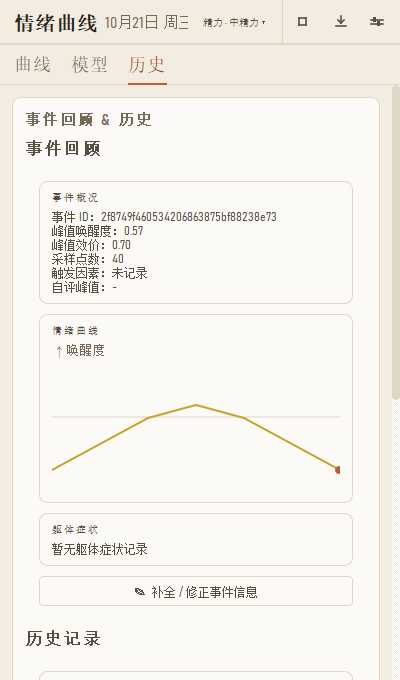
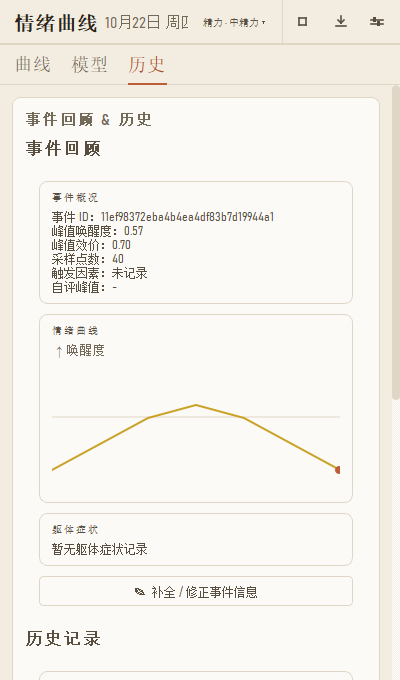
fix(v5): 纠正框输入行适配 400px，重新生成 v5 实拍
- 时刻/效价/唤醒三列收窄，spinbox 显式样式，避免 400px 下左右裁字
- 用当前时间重新生成 v5 主窗/模型/历史/挂件/空态/错误态/悬停/纠正截图
- LOC 25,621；769 passed

Changed region(s): [[0.24, 0.3088, 0.69, 0.3397], [0.39, 0.0, 0.48, 0.0618]]

diff --git a/windows/correction_sheet.py b/windows/correction_sheet.py
@@ -26,7 +26,7 @@ from PyQt5.QtWidgets import (
 )
 from PyQt5.QtGui import QFont
 
-from theme import COLORS, app_font, app_font_num, DUR_MID
+from theme import COLORS, METRICS, app_font, app_font_num, DUR_MID
 
 
 class CorrectionSheet(QDialog):
@@ -108,8 +108,8 @@ class CorrectionSheet(QDialog):
             f" border-top: 1px solid {COLORS['rule']}; }}"
         )
         rl = QHBoxLayout(right)
-        rl.setContentsMargins(14, 10, 14, 10)
-        rl.setSpacing(10)
+        rl.setContentsMargins(10, 8, 10, 8)
+        rl.setSpacing(8)
 
         def _field(key, widget, extra=None):
             """一格：极小标签在上，控件在下。"""
@@ -133,6 +133,7 @@ class CorrectionSheet(QDialog):
         self.tm_lbl = QLabel("—")
         self.tm_lbl.setFont(app_font_num(13, QFont.Light))
         self.tm_lbl.setStyleSheet(f"color: {COLORS['ink']};")
+        self.tm_lbl.setFixedWidth(78)
         rl.addWidget(_field("时刻", self.tm_lbl), 1)
 
         # 效价
@@ -154,6 +155,18 @@ class CorrectionSheet(QDialog):
         self.a_sb.setFont(app_font(11))
         self.a_sb.valueChanged.connect(lambda v: self._on_manual_edit(1, v))
         rl.addWidget(_field("唤醒", self.a_sb, self._a_orig_lbl), 2)
+
+        # 400px 宽下三个字段必须收窄，否则 spinbox 会被右侧/左侧裁掉
+        rs = METRICS['radius_sm']
+        spin_qss = (
+            f"QDoubleSpinBox {{ background: {COLORS['surface']};"
+            f" color: {COLORS['ink']}; border: 1px solid {COLORS['rule']};"
+            f" border-radius: {rs}px; padding: 2px 4px; }}"
+            f"QDoubleSpinBox:focus {{ border-color: {COLORS['accent']}; }}"
+        )
+        for sb in (self.v_sb, self.a_sb):
+            sb.setFixedWidth(96)
+            sb.setStyleSheet(spin_qss)
 
         bl.addWidget(right)
 

diff --git a/docs/refactor-v5/06-阶段6-预测日志与评估底座.md b/docs/refactor-v5/06-阶段6-预测日志与评估底座.md
@@ -2,7 +2,7 @@
 
 > **性质**：实施阶段（因果预测日志 + MAE/RMSE 评估工具 + 7 天使用清单）。
 > **基线**：Phase 5 完成（`04ebe92` / `efa778f`），763 passed。
-> **结果**：**769 passed**（内核 593 + 桌面 176），行数 **25,608 / 27,000**。
+> **结果**：**769 passed**（内核 593 + 桌面 176），行数 **25,621 / 27,000**。
 > **状态**：评估底座完成；“7 天真实使用”需要用户实际积累数据，尚未开始。
 > **关联路线图**：[`ROADMAP.md`](ROADMAP.md)
 

diff --git a/docs/refactor-v5/ROADMAP.md b/docs/refactor-v5/ROADMAP.md
@@ -2,7 +2,7 @@
 
 > **面向**：任何接手 EmoWave 的 Agent / 开发者。先读这一份，再读各阶段记录。
 > **最后更新**：2026-10-22
-> **当前基线**：Phase 6 评估底座完成（`769 passed`，25,608 / 27,000 行）；7 天真实使用待开始。
+> **当前基线**：Phase 6 评估底座完成（`769 passed`，25,621 / 27,000 行）；7 天真实使用待开始。
 > **总目标**：后端数据契约完善 + 前端 UI 重构，而不是“继续修后端”或“直接美化 UI”。
 
 ---

diff --git a/docs/交接文档.md b/docs/交接文档.md
@@ -329,7 +329,7 @@ python -m pytest tests/test_architecture.py -q       # 6 条护栏
 
 ### 9.4 体积预算
 
-`tests/test_architecture.py` 里 `LOC_BUDGET = 27000`（当前 25,608）。
+`tests/test_architecture.py` 里 `LOC_BUDGET = 27000`（当前 25,621）。
 要加功能就先删等价代码；确实要涨，改常量并在注释里写日期和理由。
 
 ---
